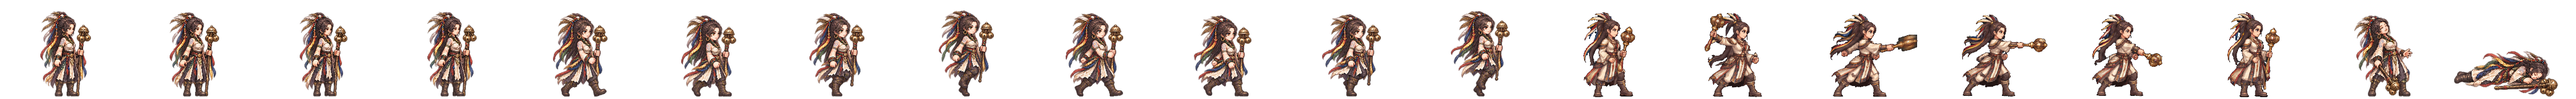
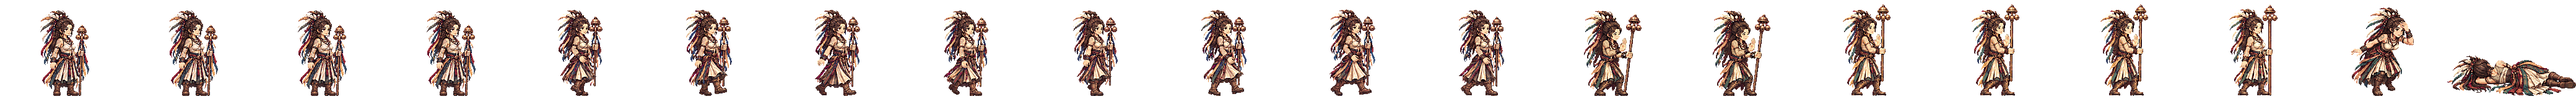
무진 문의 새 띠: 오방색 방울 지팡이 걷기·시전(손바닥 밀기)·방울 흔들기·맞음·쓰러짐 (걷기 윗몸 흔들림 0 · 합격)
Claude-Session: https://claude.ai/code/session_01TRiuN7s6aDfSnaHxrkctmU

Changed region(s): [[0.0, 0.0938, 1.0, 0.9688]]

diff --git a/src/realm/data/spritePx.ts b/src/realm/data/spritePx.ts
@@ -1,3 +1,3 @@
 /** public/realm/anim-px/manifest.json 의 사본 — tools/sprite-normalize.mjs 가 만든다 (손으로 고치지 말 것). 칸 [가로, 세로] · feet = 발 줄(칸 위에서 y) · bodyPx = 서 있는 몸 키 */
 import { expandManifest } from './sprite-manifest.ts'
-export const SPRITE_PX: Readonly<Record<string, { readonly cell: readonly [number, number]; readonly feet: number; readonly bodyPx: number; readonly kind: 'general' | 'soldier' | 'folk' | 'crowd'; readonly cells: number }>> = expandManifest<{ readonly cell: readonly [number, number]; readonly feet: number; readonly bodyPx: number; readonly kind: 'general' | 'soldier' | 'folk' | 'crowd'; readonly cells: number }>([{"cell":[166,128],"feet":126,"bodyPx":124,"kind":"soldier","cells":20},{"cell":[116,128],"feet":126,"bodyPx":117,"kind":"soldier","cells":20},{"cell":[127,128],"feet":126,"bodyPx":116,"kind":"soldier","cells":20},{"cell":[269,128],"feet":126,"bodyPx":126,"kind":"soldier","cells":20},{"cell":[503,128],"feet":126,"bodyPx":127,"kind":"soldier","cells":20},{"cell":[614,128],"feet":126,"bodyPx":126,"kind":"soldier","cells":20},{"cell":[200,160],"feet":156,"bodyPx":138,"kind":"general","cells":20},{"cell":[208,160],"feet":155,"bodyPx":138,"kind":"general","cells":20},{"cell":[208,160],"feet":154,"bodyPx":138,"kind":"general","cells":20},{"cell":[304,160],"feet":155,"bodyPx":135,"kind":"general","cells":20},{"cell":[184,160],"feet":156,"bodyPx":138,"kind":"general","cells":20},{"cell":[208,160],"feet":154,"bodyPx":136,"kind":"general","cells":20},{"cell":[232,160],"feet":156,"bodyPx":138,"kind":"general","cells":20},{"cell":[208,160],"feet":156,"bodyPx":138,"kind":"general","cells":20},{"cell":[168,160],"feet":156,"bodyPx":124,"kind":"general","cells":20},{"cell":[216,160],"feet":156,"bodyPx":130,"kind":"general","cells":20},{"cell":[200,160],"feet":156,"bodyPx":116,"kind":"general","cells":20},{"cell":[192,160],"feet":156,"bodyPx":138,"kind":"general","cells":20},{"cell":[208,160],"feet":154,"bodyPx":135,"kind":"general","cells":20},{"cell":[280,160],"feet":156,"bodyPx":138,"kind":"general","cells":20},{"cell":[232,160],"feet":156,"bodyPx":134,"kind":"general","cells":20},{"cell":[144,160],"feet":156,"bodyPx":70,"kind":"general","cells":20},{"cell":[208,160],"feet":156,"bodyPx":70,"kind":"general","cells":20},{"cell":[192,160],"feet":156,"bodyPx":70,"kind":"general","cells":20},{"cell":[240,160],"feet":155,"bodyPx":138,"kind":"general","cells":20},{"cell":[160,160],"feet":156,"bodyPx":135,"kind":"general","cells":20},{"cell":[192,160],"feet":156,"bodyPx":128,"kind":"general","cells":20},{"cell":[224,160],"feet":155,"bodyPx":138,"kind":"general","cells":20},{"cell":[216,160],"feet":156,"bodyPx":138,"kind":"general","cells":20},{"cell":[208,160],"feet":156,"bodyPx":134,"kind":"general","cells":20},{"cell":[208,160],"feet":154,"bodyPx":130,"kind":"general","cells":20},{"cell":[248,160],"feet":156,"bodyPx":138,"kind":"general","cells":20},{"cell":[248,160],"feet":155,"bodyPx":138,"kind":"general","cells":20},{"cell":[192,160],"feet":155,"bodyPx":138,"kind":"general","cells":20},{"cell":[192,160],"feet":156,"bodyPx":124,"kind":"general","cells":20},{"cell":[208,160],"feet":154,"bodyPx":131,"kind":"general","cells":20},{"cell":[256,160],"feet":156,"bodyPx":138,"kind":"general","cells":20},{"cell":[240,160],"feet":156,"bodyPx":138,"kind":"general","cells":20},{"cell":[232,160],"feet":156,"bodyPx":139,"kind":"general","cells":20},{"cell":[232,160],"feet":156,"bodyPx":73,"kind":"general","cells":20},{"cell":[208,160],"feet":154,"bodyPx":137,"kind":"general","cells":20},{"cell":[264,160],"feet":156,"bodyPx":138,"kind":"general","cells":20},{"cell":[224,160],"feet":156,"bodyPx":138,"kind":"general","cells":20},{"cell":[224,160],"feet":156,"bodyPx":128,"kind":"general","cells":20},{"cell":[176,160],"feet":156,"bodyPx":129,"kind":"general","cells":20},{"cell":[208,160],"feet":154,"bodyPx":139,"kind":"general","cells":20},{"cell":[232,160],"feet":155,"bodyPx":138,"kind":"general","cells":20},{"cell":[208,160],"feet":156,"bodyPx":132,"kind":"general","cells":20},{"cell":[184,160],"feet":156,"bodyPx":122,"kind":"general","cells":20},{"cell":[280,160],"feet":155,"bodyPx":133,"kind":"general","cells":20},{"cell":[176,160],"feet":156,"bodyPx":70,"kind":"general","cells":20},{"cell":[186,128],"feet":126,"bodyPx":127,"kind":"soldier","cells":20},{"cell":[298,128],"feet":126,"bodyPx":126,"kind":"soldier","cells":20},{"cell":[82,128],"feet":126,"bodyPx":114,"kind":"folk","cells":8},{"cell":[134,128],"feet":126,"bodyPx":119,"kind":"soldier","cells":20},{"cell":[380,128],"feet":126,"bodyPx":124,"kind":"soldier","cells":20},{"cell":[114,128],"feet":126,"bodyPx":115,"kind":"soldier","cells":20},{"cell":[122,128],"feet":126,"bodyPx":114,"kind":"soldier","cells":20},{"cell":[254,128],"feet":126,"bodyPx":128,"kind":"soldier","cells":20},{"cell":[438,128],"feet":126,"bodyPx":126,"kind":"soldier","cells":20},{"cell":[88,128],"feet":126,"bodyPx":113,"kind":"folk","cells":8},{"cell":[100,128],"feet":126,"bodyPx":115,"kind":"folk","cells":8},{"cell":[108,128],"feet":126,"bodyPx":115,"kind":"folk","cells":8},{"cell":[63,128],"feet":126,"bodyPx":113,"kind":"folk","cells":8},{"cell":[69,96],"feet":96,"bodyPx":96,"kind":"crowd","cells":1},{"cell":[54,96],"feet":96,"bodyPx":96,"kind":"crowd","cells":1},{"cell":[47,96],"feet":96,"bodyPx":96,"kind":"crowd","cells":1},{"cell":[49,96],"feet":96,"bodyPx":96,"kind":"crowd","cells":1},{"cell":[57,96],"feet":96,"bodyPx":96,"kind":"crowd","cells":1},{"cell":[55,96],"feet":96,"bodyPx":96,"kind":"crowd","cells":1},{"cell":[45,96],"feet":96,"bodyPx":96,"kind":"crowd","cells":1},{"cell":[53,96],"feet":96,"bodyPx":96,"kind":"crowd","cells":1},{"cell":[64,96],"feet":96,"bodyPx":96,"kind":"crowd","cells":1},{"cell":[184,160],"feet":156,"bodyPx":124,"kind":"general","cells":20},{"cell":[208,160],"feet":154,"bodyPx":134,"kind":"general","cells":20},{"cell":[224,160],"feet":156,"bodyPx":133,"kind":"general","cells":20},{"cell":[192,160],"feet":156,"bodyPx":135,"kind":"general","cells":20},{"cell":[184,160],"feet":156,"bodyPx":137,"kind":"general","cells":20},{"cell":[176,160],"feet":156,"bodyPx":130,"kind":"general","cells":20},{"cell":[216,160],"feet":156,"bodyPx":134,"kind":"general","cells":20},{"cell":[216,160],"feet":156,"bodyPx":132,"kind":"general","cells":20},{"cell":[288,160],"feet":156,"bodyPx":138,"kind":"general","cells":20},{"cell":[192,160],"feet":156,"bodyPx":118,"kind":"general","cells":20},{"cell":[208,160],"feet":154,"bodyPx":128,"kind":"general","cells":20},{"cell":[240,160],"feet":156,"bodyPx":128,"kind":"general","cells":20},{"cell":[184,160],"feet":156,"bodyPx":132,"kind":"general","cells":20},{"cell":[208,160],"feet":156,"bodyPx":123,"kind":"general","cells":20},{"cell":[176,160],"feet":156,"bodyPx":116,"kind":"general","cells":20},{"cell":[272,160],"feet":156,"bodyPx":138,"kind":"general","cells":20},{"cell":[176,160],"feet":156,"bodyPx":138,"kind":"general","cells":20},{"cell":[176,160],"feet":156,"bodyPx":122,"kind":"general","cells":20},{"cell":[232,160],"feet":156,"bodyPx":127,"kind":"general","cells":20},{"cell":[184,160],"feet":156,"bodyPx":134,"kind":"general","cells":20},{"cell":[168,160],"feet":156,"bodyPx":138,"kind":"general","cells":20},{"cell":[176,160],"feet":156,"bodyPx":137,"kind":"general","cells":20},{"cell":[184,160],"feet":156,"bodyPx":133,"kind":"general","cells":20}],[["axe",0],["bandit-chief",1],["bandit-club",2],["boat",3],["bow",4],["crossbow",5],["gen-adogan",6],["gen-alpyeong",7],["gen-ara",8],["gen-areum",8],["gen-aryeong",9],["gen-bakdal",8],["gen-baram",8],["gen-bdanbi",10],["gen-beom",11],["gen-beombal",8],["gen-beomi",8],["gen-bira",12],["gen-biryu",13],["gen-budeul",8],["gen-byeol",8],["gen-daemusin",14],["gen-daeso",15],["gen-dallae2",10],["gen-dalli",8],["gen-damul",16],["gen-danbi",8],["gen-dangung",17],["gen-darae",18],["gen-dokmudeom",8],["gen-duman",19],["gen-eomni",8],["gen-eureum",20],["gen-g-bow",21],["gen-g-spear",22],["gen-g-sword",23],["gen-gaennae",8],["gen-gamsil",24],["gen-gaon",25],["gen-geota",13],["gen-geumbawi",10],["gen-geumha",26],["gen-goeun",13],["gen-gom",27],["gen-gomok",13],["gen-gureum",8],["gen-guryema",17],["gen-gwaeyu",12],["gen-haebi",8],["gen-haedal",6],["gen-haesol",8],["gen-halla",7],["gen-heo",8],["gen-hneoul",10],["gen-hogong",28],["gen-hojin",13],["gen-horselord",29],["gen-hwalmi",30],["gen-hyeokgeose",17],["gen-hyeopbo",6],["gen-irang",8],["gen-jibaekho",31],["gen-jinha",32],["gen-jita",33],["gen-jumong",34],["gen-keundol",7],["gen-maehwa",35],["gen-maenun",17],["gen-malgalgi",36],["gen-mari",37],["gen-maro",31],["gen-maryeo",13],["gen-mdallae",38],["gen-mir",6],["gen-mount",39],["gen-mulbeom",40],["gen-mulsae",40],["gen-musoe",28],["gen-noeul",8],["gen-nuri",41],["gen-ocheongan",42],["gen-odi",8],["gen-odogan",6],["gen-ogan",17],["gen-oi",43],["gen-olddaeso",20],["gen-onjo",44],["gen-pidogan",13],["gen-sagong",45],["gen-sdallae",6],["gen-sincheongan",8],["gen-singwigan",28],["gen-sinneoul",8],["gen-sobeol",46],["gen-soebi",6],["gen-soebo",47],["gen-soenun",45],["gen-sogeumbi",40],["gen-songbi",42],["gen-songyang",48],["gen-sori",8],["gen-soseono",49],["gen-suro",17],["gen-tahae",6],["gen-tneoul",8],["gen-w-bow",21],["gen-w-spear",50],["gen-waechief",13],["gen-wan",28],["gen-yeodogan",13],["gen-yucheongan",13],["gen-yusugan",31],["horse",51],["marine",52],["migrant",53],["militia",54],["pike",55],["pirate-captain",56],["pirate-sword",57],["shield",58],["spear",59],["villager-builder",60],["villager-farmer",61],["villager-porter",62],["villager-woman",63],["crowd-b1",64],["crowd-b2",65],["crowd-b3",66],["crowd-b4",67],["crowd-b5",68],["crowd-b6",69],["crowd-f1",64],["crowd-f2",69],["crowd-f3",70],["crowd-f4",71],["crowd-f5",64],["crowd-f6",72],["gen-dalbit",13],["gen-base-g-07-drunk-warrior",17],["gen-base-g-40-anya-adan",13],["gen-base-w-13-young-archer",8],["gen-base-g-03-sea-trader",37],["gen-base-w-10-pirate-captain",45],["gen-base-w-64-miri-dallae",45],["gen-base-g-41-goja-bau",37],["gen-base-g-42-dokro-garam",41],["gen-base-g-09-farmer-conscript",28],["gen-base-w-02-goguryeo-lady",28],["gen-base-w-17-mahan-pearl-diver",8],["gen-base-g-17-saro-isageum",47],["gen-base-g-18-daegaya-king",73],["gen-base-g-35-dabeol-dalgu",13],["gen-base-g-19-sabeol-veteran",28],["gen-base-w-23-usisan-whale-queen",8],["gen-base-g-36-gammun-gamdol",42],["gen-base-g-20-samul-sea-lord",36],["gen-base-g-37-eumjeup-jeup",10],["gen-base-g-38-chopal-palmae",17],["gen-base-w-75-daegaya-soemoe",17],["gen-base-g-45-dabeol-deulgae",10],["gen-base-g-04-jinhan-giant",13],["gen-base-g-08-veteran",13],["gen-base-w-18-jinhan-salt-widow",8],["gen-base-w-12-court-dancer",74],["gen-base-w-83-gyeonji-beodeul",75],["gen-base-w-05-baekje-queen",76],["gen-base-w-21-baekje-court-dancer",10],["gen-base-g-01-master-smith",77],["gen-base-g-93-jomun-solgae",78],["gen-base-g-57-bihwa-neup",37],["gen-base-w-72-eumjeup-beol",8],["gen-base-w-102-garak-dana",45],["gen-base-g-68-baekje-onnuri",13],["gen-base-w-27-mokji-jinha",6],["gen-base-g-22-ungcheon-gomnae",6],["gen-base-g-23-sangdang-soedal",13],["gen-base-g-24-wansan-onsan",6],["gen-base-g-25-balla-keunmoe",28],["gen-base-g-61-heomcheuk-bawi",28],["gen-base-g-88-wander-soeul",42],["gen-base-w-14-feast-spy",8],["gen-base-g-12-silla-youth",79],["gen-base-w-08-mahan-warrior",8],["gen-base-g-62-beonye-hanul",37],["gen-base-g-63-heomcheuk-beogeum",13],["gen-base-g-84-wander-seoneul",13],["gen-base-w-50-siljik-mulga",28],["gen-base-g-46-uga-nureongso",28],["gen-base-w-80-usan-gangchi",45],["gen-base-g-47-guga-sanyanggae",28],["gen-base-w-76-gampyeong-baetsagong",8],["gen-base-g-05-mahan-chieftain",80],["gen-base-g-58-usan-uhae",13],["gen-base-g-27-maek-maekdol",13],["gen-base-w-53-hwanna-gabi",45],["gen-base-w-29-golpo-janmul",31],["gen-base-g-53-baekje-haeru",6],["gen-base-w-71-yeonna-neoul",8],["gen-base-w-79-yangmaek-solmae",8],["gen-base-w-34-chopal-deulme",8],["gen-base-g-44-maga-malgup",81],["gen-base-w-31-dabeol-dalbit",45],["gen-base-g-51-biryuna-mulgyeol",42],["gen-base-g-48-gwanna-musoe",13],["gen-base-g-32-uga-sodu",12],["gen-base-g-49-goguryeo-sona",82],["gen-base-g-30-gwanna-soemoe",42],["gen-base-g-52-tamna-oreum",10],["gen-base-g-29-yeonna-myeongsol",34],["gen-base-w-56-dongokjeo-sogeum",74],["gen-base-g-54-mokji-mahan",12],["gen-base-g-33-jeoga-metdol",17],["gen-base-w-36-baekje-maena",8],["gen-base-w-38-sangdang-bulmae",6],["gen-base-w-39-gosaburi-galmae",8],["gen-base-w-40-mujin-munui",47],["gen-base-w-41-hwanna-beodeul",83],["gen-base-w-43-uga-nuri",36],["gen-base-w-45-tamna-oreumbi",10],["gen-base-g-60-golbeol-golgae",10],["gen-base-g-61-apdok-ap",28],["gen-base-g-62-gammun-gamnamu",6],["gen-base-g-63-chopal-yeoul",31],["gen-base-g-64-michuhol-sogeumkkun",37],["gen-base-g-65-sangdang-soemangchi",42],["gen-base-g-66-geonma-malbalgup",84],["gen-base-g-67-gosaburi-buri",85],["gen-base-g-68-mujin-bitgoeul",10],["gen-base-g-69-goryong-yong",42],["gen-base-g-70-siljik-pado",37],["gen-base-w-81-byeokjin-byeolbit",8],["gen-base-w-46-geonma-maru",8],["gen-base-w-48-mujin-mudeung",8],["gen-base-g-26-gampyeong-gaetbeol",12],["gen-base-g-60-eupcha-hangyeol",86],["gen-base-g-15-shaman-man",28],["gen-base-g-85-wander-ure",31],["gen-base-g-43-hwanna-amnok",13],["gen-base-g-50-bullae-gwaha",76],["gen-base-g-55-saro-bakdal",13],["gen-base-g-56-haseulla-gwahama",6],["gen-base-w-06-buyeo-huntress",40],["gen-base-w-22-dongye-tiger-huntress",8],["gen-base-w-25-bihwa-priestess",8],["gen-base-w-24-apdok-queen",10],["gen-base-w-61-iseo-sinae",13],["gen-base-w-26-iseo-tomboy-general",8],["gen-base-g-59-yangmaek-maekson",87],["gen-aw1-haebi",42],["gen-aw1-soseono",88],["gen-aw1-gamsil",10],["gen-aw1-mir",89],["gen-aw1-dangung",6],["gen-aw1-ara",42],["gen-aw1-jumong",90],["gen-aw1-onjo",91],["gen-aw1-base-w-83-gyeonji-beodeul",17],["gen-aw1-heo",41],["gen-aw1-base-g-38-chopal-palmae",6],["gen-aw1-base-w-25-bihwa-priestess",92],["gen-aw1-sori",93],["gen-aw1-gomok",6],["gen-aw1-irang",17],["gen-aw1-budeul",93],["gen-aw1-gom",37],["gen-aw1-sdallae",6],["gen-aw1-base-w-13-young-archer",6],["gen-aw1-base-w-36-baekje-maena",94],["gen-aw1-base-g-09-farmer-conscript",41],["gen-aw1-base-w-02-goguryeo-lady",95],["gen-aw1-haedal",10],["gen-aw1-hogong",6],["gen-aw1-maehwa",89],["gen-aw1-base-w-06-buyeo-huntress",12],["gen-aw1-base-w-08-mahan-warrior",42],["gen-aw1-base-w-29-golpo-janmul",42],["gen-aw1-base-w-31-dabeol-dalbit",17],["gen-aw1-base-w-38-sangdang-bulmae",93],["gen-aw1-bira",28],["gen-aw1-base-w-53-hwanna-gabi",93],["gen-aw1-base-w-56-dongokjeo-sogeum",89],["gen-aw1-base-w-72-eumjeup-beol",17],["gen-aw1-bdanbi",93],["gen-aw1-beom",10],["gen-aw1-beombal",10],["gen-aw1-byeol",17],["gen-aw1-dalli",89],["gen-aw1-malgalgi",31],["gen-aw1-sincheongan",28]])
+export const SPRITE_PX: Readonly<Record<string, { readonly cell: readonly [number, number]; readonly feet: number; readonly bodyPx: number; readonly kind: 'general' | 'soldier' | 'folk' | 'crowd'; readonly cells: number }>> = expandManifest<{ readonly cell: readonly [number, number]; readonly feet: number; readonly bodyPx: number; readonly kind: 'general' | 'soldier' | 'folk' | 'crowd'; readonly cells: number }>([{"cell":[166,128],"feet":126,"bodyPx":124,"kind":"soldier","cells":20},{"cell":[116,128],"feet":126,"bodyPx":117,"kind":"soldier","cells":20},{"cell":[127,128],"feet":126,"bodyPx":116,"kind":"soldier","cells":20},{"cell":[269,128],"feet":126,"bodyPx":126,"kind":"soldier","cells":20},{"cell":[503,128],"feet":126,"bodyPx":127,"kind":"soldier","cells":20},{"cell":[614,128],"feet":126,"bodyPx":126,"kind":"soldier","cells":20},{"cell":[200,160],"feet":156,"bodyPx":138,"kind":"general","cells":20},{"cell":[208,160],"feet":155,"bodyPx":138,"kind":"general","cells":20},{"cell":[208,160],"feet":154,"bodyPx":138,"kind":"general","cells":20},{"cell":[304,160],"feet":155,"bodyPx":135,"kind":"general","cells":20},{"cell":[184,160],"feet":156,"bodyPx":138,"kind":"general","cells":20},{"cell":[208,160],"feet":154,"bodyPx":136,"kind":"general","cells":20},{"cell":[232,160],"feet":156,"bodyPx":138,"kind":"general","cells":20},{"cell":[208,160],"feet":156,"bodyPx":138,"kind":"general","cells":20},{"cell":[168,160],"feet":156,"bodyPx":124,"kind":"general","cells":20},{"cell":[216,160],"feet":156,"bodyPx":130,"kind":"general","cells":20},{"cell":[200,160],"feet":156,"bodyPx":116,"kind":"general","cells":20},{"cell":[192,160],"feet":156,"bodyPx":138,"kind":"general","cells":20},{"cell":[208,160],"feet":154,"bodyPx":135,"kind":"general","cells":20},{"cell":[280,160],"feet":156,"bodyPx":138,"kind":"general","cells":20},{"cell":[232,160],"feet":156,"bodyPx":134,"kind":"general","cells":20},{"cell":[144,160],"feet":156,"bodyPx":70,"kind":"general","cells":20},{"cell":[208,160],"feet":156,"bodyPx":70,"kind":"general","cells":20},{"cell":[192,160],"feet":156,"bodyPx":70,"kind":"general","cells":20},{"cell":[240,160],"feet":155,"bodyPx":138,"kind":"general","cells":20},{"cell":[160,160],"feet":156,"bodyPx":135,"kind":"general","cells":20},{"cell":[192,160],"feet":156,"bodyPx":128,"kind":"general","cells":20},{"cell":[224,160],"feet":155,"bodyPx":138,"kind":"general","cells":20},{"cell":[216,160],"feet":156,"bodyPx":138,"kind":"general","cells":20},{"cell":[208,160],"feet":156,"bodyPx":134,"kind":"general","cells":20},{"cell":[208,160],"feet":154,"bodyPx":130,"kind":"general","cells":20},{"cell":[248,160],"feet":156,"bodyPx":138,"kind":"general","cells":20},{"cell":[248,160],"feet":155,"bodyPx":138,"kind":"general","cells":20},{"cell":[192,160],"feet":155,"bodyPx":138,"kind":"general","cells":20},{"cell":[192,160],"feet":156,"bodyPx":124,"kind":"general","cells":20},{"cell":[208,160],"feet":154,"bodyPx":131,"kind":"general","cells":20},{"cell":[256,160],"feet":156,"bodyPx":138,"kind":"general","cells":20},{"cell":[240,160],"feet":156,"bodyPx":138,"kind":"general","cells":20},{"cell":[232,160],"feet":156,"bodyPx":139,"kind":"general","cells":20},{"cell":[232,160],"feet":156,"bodyPx":73,"kind":"general","cells":20},{"cell":[208,160],"feet":154,"bodyPx":137,"kind":"general","cells":20},{"cell":[264,160],"feet":156,"bodyPx":138,"kind":"general","cells":20},{"cell":[224,160],"feet":156,"bodyPx":138,"kind":"general","cells":20},{"cell":[224,160],"feet":156,"bodyPx":128,"kind":"general","cells":20},{"cell":[176,160],"feet":156,"bodyPx":129,"kind":"general","cells":20},{"cell":[208,160],"feet":154,"bodyPx":139,"kind":"general","cells":20},{"cell":[232,160],"feet":155,"bodyPx":138,"kind":"general","cells":20},{"cell":[208,160],"feet":156,"bodyPx":132,"kind":"general","cells":20},{"cell":[184,160],"feet":156,"bodyPx":122,"kind":"general","cells":20},{"cell":[280,160],"feet":155,"bodyPx":133,"kind":"general","cells":20},{"cell":[176,160],"feet":156,"bodyPx":70,"kind":"general","cells":20},{"cell":[186,128],"feet":126,"bodyPx":127,"kind":"soldier","cells":20},{"cell":[298,128],"feet":126,"bodyPx":126,"kind":"soldier","cells":20},{"cell":[82,128],"feet":126,"bodyPx":114,"kind":"folk","cells":8},{"cell":[134,128],"feet":126,"bodyPx":119,"kind":"soldier","cells":20},{"cell":[380,128],"feet":126,"bodyPx":124,"kind":"soldier","cells":20},{"cell":[114,128],"feet":126,"bodyPx":115,"kind":"soldier","cells":20},{"cell":[122,128],"feet":126,"bodyPx":114,"kind":"soldier","cells":20},{"cell":[254,128],"feet":126,"bodyPx":128,"kind":"soldier","cells":20},{"cell":[438,128],"feet":126,"bodyPx":126,"kind":"soldier","cells":20},{"cell":[88,128],"feet":126,"bodyPx":113,"kind":"folk","cells":8},{"cell":[100,128],"feet":126,"bodyPx":115,"kind":"folk","cells":8},{"cell":[108,128],"feet":126,"bodyPx":115,"kind":"folk","cells":8},{"cell":[63,128],"feet":126,"bodyPx":113,"kind":"folk","cells":8},{"cell":[69,96],"feet":96,"bodyPx":96,"kind":"crowd","cells":1},{"cell":[54,96],"feet":96,"bodyPx":96,"kind":"crowd","cells":1},{"cell":[47,96],"feet":96,"bodyPx":96,"kind":"crowd","cells":1},{"cell":[49,96],"feet":96,"bodyPx":96,"kind":"crowd","cells":1},{"cell":[57,96],"feet":96,"bodyPx":96,"kind":"crowd","cells":1},{"cell":[55,96],"feet":96,"bodyPx":96,"kind":"crowd","cells":1},{"cell":[45,96],"feet":96,"bodyPx":96,"kind":"crowd","cells":1},{"cell":[53,96],"feet":96,"bodyPx":96,"kind":"crowd","cells":1},{"cell":[64,96],"feet":96,"bodyPx":96,"kind":"crowd","cells":1},{"cell":[184,160],"feet":156,"bodyPx":124,"kind":"general","cells":20},{"cell":[208,160],"feet":154,"bodyPx":134,"kind":"general","cells":20},{"cell":[224,160],"feet":156,"bodyPx":133,"kind":"general","cells":20},{"cell":[192,160],"feet":156,"bodyPx":135,"kind":"general","cells":20},{"cell":[184,160],"feet":156,"bodyPx":137,"kind":"general","cells":20},{"cell":[176,160],"feet":156,"bodyPx":130,"kind":"general","cells":20},{"cell":[216,160],"feet":156,"bodyPx":134,"kind":"general","cells":20},{"cell":[216,160],"feet":156,"bodyPx":132,"kind":"general","cells":20},{"cell":[288,160],"feet":156,"bodyPx":138,"kind":"general","cells":20},{"cell":[192,160],"feet":156,"bodyPx":118,"kind":"general","cells":20},{"cell":[208,160],"feet":154,"bodyPx":132,"kind":"general","cells":20},{"cell":[208,160],"feet":154,"bodyPx":128,"kind":"general","cells":20},{"cell":[240,160],"feet":156,"bodyPx":128,"kind":"general","cells":20},{"cell":[184,160],"feet":156,"bodyPx":132,"kind":"general","cells":20},{"cell":[208,160],"feet":156,"bodyPx":123,"kind":"general","cells":20},{"cell":[176,160],"feet":156,"bodyPx":116,"kind":"general","cells":20},{"cell":[272,160],"feet":156,"bodyPx":138,"kind":"general","cells":20},{"cell":[176,160],"feet":156,"bodyPx":138,"kind":"general","cells":20},{"cell":[176,160],"feet":156,"bodyPx":122,"kind":"general","cells":20},{"cell":[232,160],"feet":156,"bodyPx":127,"kind":"general","cells":20},{"cell":[184,160],"feet":156,"bodyPx":134,"kind":"general","cells":20},{"cell":[168,160],"feet":156,"bodyPx":138,"kind":"general","cells":20},{"cell":[176,160],"feet":156,"bodyPx":137,"kind":"general","cells":20},{"cell":[184,160],"feet":156,"bodyPx":133,"kind":"general","cells":20}],[["axe",0],["bandit-chief",1],["bandit-club",2],["boat",3],["bow",4],["crossbow",5],["gen-adogan",6],["gen-alpyeong",7],["gen-ara",8],["gen-areum",8],["gen-aryeong",9],["gen-bakdal",8],["gen-baram",8],["gen-bdanbi",10],["gen-beom",11],["gen-beombal",8],["gen-beomi",8],["gen-bira",12],["gen-biryu",13],["gen-budeul",8],["gen-byeol",8],["gen-daemusin",14],["gen-daeso",15],["gen-dallae2",10],["gen-dalli",8],["gen-damul",16],["gen-danbi",8],["gen-dangung",17],["gen-darae",18],["gen-dokmudeom",8],["gen-duman",19],["gen-eomni",8],["gen-eureum",20],["gen-g-bow",21],["gen-g-spear",22],["gen-g-sword",23],["gen-gaennae",8],["gen-gamsil",24],["gen-gaon",25],["gen-geota",13],["gen-geumbawi",10],["gen-geumha",26],["gen-goeun",13],["gen-gom",27],["gen-gomok",13],["gen-gureum",8],["gen-guryema",17],["gen-gwaeyu",12],["gen-haebi",8],["gen-haedal",6],["gen-haesol",8],["gen-halla",7],["gen-heo",8],["gen-hneoul",10],["gen-hogong",28],["gen-hojin",13],["gen-horselord",29],["gen-hwalmi",30],["gen-hyeokgeose",17],["gen-hyeopbo",6],["gen-irang",8],["gen-jibaekho",31],["gen-jinha",32],["gen-jita",33],["gen-jumong",34],["gen-keundol",7],["gen-maehwa",35],["gen-maenun",17],["gen-malgalgi",36],["gen-mari",37],["gen-maro",31],["gen-maryeo",13],["gen-mdallae",38],["gen-mir",6],["gen-mount",39],["gen-mulbeom",40],["gen-mulsae",40],["gen-musoe",28],["gen-noeul",8],["gen-nuri",41],["gen-ocheongan",42],["gen-odi",8],["gen-odogan",6],["gen-ogan",17],["gen-oi",43],["gen-olddaeso",20],["gen-onjo",44],["gen-pidogan",13],["gen-sagong",45],["gen-sdallae",6],["gen-sincheongan",8],["gen-singwigan",28],["gen-sinneoul",8],["gen-sobeol",46],["gen-soebi",6],["gen-soebo",47],["gen-soenun",45],["gen-sogeumbi",40],["gen-songbi",42],["gen-songyang",48],["gen-sori",8],["gen-soseono",49],["gen-suro",17],["gen-tahae",6],["gen-tneoul",8],["gen-w-bow",21],["gen-w-spear",50],["gen-waechief",13],["gen-wan",28],["gen-yeodogan",13],["gen-yucheongan",13],["gen-yusugan",31],["horse",51],["marine",52],["migrant",53],["militia",54],["pike",55],["pirate-captain",56],["pirate-sword",57],["shield",58],["spear",59],["villager-builder",60],["villager-farmer",61],["villager-porter",62],["villager-woman",63],["crowd-b1",64],["crowd-b2",65],["crowd-b3",66],["crowd-b4",67],["crowd-b5",68],["crowd-b6",69],["crowd-f1",64],["crowd-f2",69],["crowd-f3",70],["crowd-f4",71],["crowd-f5",64],["crowd-f6",72],["gen-dalbit",13],["gen-base-g-07-drunk-warrior",17],["gen-base-g-40-anya-adan",13],["gen-base-w-13-young-archer",8],["gen-base-g-03-sea-trader",37],["gen-base-w-10-pirate-captain",45],["gen-base-w-64-miri-dallae",45],["gen-base-g-41-goja-bau",37],["gen-base-g-42-dokro-garam",41],["gen-base-g-09-farmer-conscript",28],["gen-base-w-02-goguryeo-lady",28],["gen-base-w-17-mahan-pearl-diver",8],["gen-base-g-17-saro-isageum",47],["gen-base-g-18-daegaya-king",73],["gen-base-g-35-dabeol-dalgu",13],["gen-base-g-19-sabeol-veteran",28],["gen-base-w-23-usisan-whale-queen",8],["gen-base-g-36-gammun-gamdol",42],["gen-base-g-20-samul-sea-lord",36],["gen-base-g-37-eumjeup-jeup",10],["gen-base-g-38-chopal-palmae",17],["gen-base-w-75-daegaya-soemoe",17],["gen-base-g-45-dabeol-deulgae",10],["gen-base-g-04-jinhan-giant",13],["gen-base-g-08-veteran",13],["gen-base-w-18-jinhan-salt-widow",8],["gen-base-w-12-court-dancer",74],["gen-base-w-83-gyeonji-beodeul",75],["gen-base-w-05-baekje-queen",76],["gen-base-w-21-baekje-court-dancer",10],["gen-base-g-01-master-smith",77],["gen-base-g-93-jomun-solgae",78],["gen-base-g-57-bihwa-neup",37],["gen-base-w-72-eumjeup-beol",8],["gen-base-w-102-garak-dana",45],["gen-base-g-68-baekje-onnuri",13],["gen-base-w-27-mokji-jinha",6],["gen-base-g-22-ungcheon-gomnae",6],["gen-base-g-23-sangdang-soedal",13],["gen-base-g-24-wansan-onsan",6],["gen-base-g-25-balla-keunmoe",28],["gen-base-g-61-heomcheuk-bawi",28],["gen-base-g-88-wander-soeul",42],["gen-base-w-14-feast-spy",8],["gen-base-g-12-silla-youth",79],["gen-base-w-08-mahan-warrior",8],["gen-base-g-62-beonye-hanul",37],["gen-base-g-63-heomcheuk-beogeum",13],["gen-base-g-84-wander-seoneul",13],["gen-base-w-50-siljik-mulga",28],["gen-base-g-46-uga-nureongso",28],["gen-base-w-80-usan-gangchi",45],["gen-base-g-47-guga-sanyanggae",28],["gen-base-w-76-gampyeong-baetsagong",8],["gen-base-g-05-mahan-chieftain",80],["gen-base-g-58-usan-uhae",13],["gen-base-g-27-maek-maekdol",13],["gen-base-w-53-hwanna-gabi",45],["gen-base-w-29-golpo-janmul",31],["gen-base-g-53-baekje-haeru",6],["gen-base-w-71-yeonna-neoul",8],["gen-base-w-79-yangmaek-solmae",8],["gen-base-w-34-chopal-deulme",8],["gen-base-g-44-maga-malgup",81],["gen-base-w-31-dabeol-dalbit",45],["gen-base-g-51-biryuna-mulgyeol",42],["gen-base-g-48-gwanna-musoe",13],["gen-base-g-32-uga-sodu",12],["gen-base-g-49-goguryeo-sona",82],["gen-base-g-30-gwanna-soemoe",42],["gen-base-g-52-tamna-oreum",10],["gen-base-g-29-yeonna-myeongsol",34],["gen-base-w-56-dongokjeo-sogeum",74],["gen-base-g-54-mokji-mahan",12],["gen-base-g-33-jeoga-metdol",17],["gen-base-w-36-baekje-maena",8],["gen-base-w-38-sangdang-bulmae",6],["gen-base-w-39-gosaburi-galmae",8],["gen-base-w-40-mujin-munui",83],["gen-base-w-41-hwanna-beodeul",84],["gen-base-w-43-uga-nuri",36],["gen-base-w-45-tamna-oreumbi",10],["gen-base-g-60-golbeol-golgae",10],["gen-base-g-61-apdok-ap",28],["gen-base-g-62-gammun-gamnamu",6],["gen-base-g-63-chopal-yeoul",31],["gen-base-g-64-michuhol-sogeumkkun",37],["gen-base-g-65-sangdang-soemangchi",42],["gen-base-g-66-geonma-malbalgup",85],["gen-base-g-67-gosaburi-buri",86],["gen-base-g-68-mujin-bitgoeul",10],["gen-base-g-69-goryong-yong",42],["gen-base-g-70-siljik-pado",37],["gen-base-w-81-byeokjin-byeolbit",8],["gen-base-w-46-geonma-maru",8],["gen-base-w-48-mujin-mudeung",8],["gen-base-g-26-gampyeong-gaetbeol",12],["gen-base-g-60-eupcha-hangyeol",87],["gen-base-g-15-shaman-man",28],["gen-base-g-85-wander-ure",31],["gen-base-g-43-hwanna-amnok",13],["gen-base-g-50-bullae-gwaha",76],["gen-base-g-55-saro-bakdal",13],["gen-base-g-56-haseulla-gwahama",6],["gen-base-w-06-buyeo-huntress",40],["gen-base-w-22-dongye-tiger-huntress",8],["gen-base-w-25-bihwa-priestess",8],["gen-base-w-24-apdok-queen",10],["gen-base-w-61-iseo-sinae",13],["gen-base-w-26-iseo-tomboy-general",8],["gen-base-g-59-yangmaek-maekson",88],["gen-aw1-haebi",42],["gen-aw1-soseono",89],["gen-aw1-gamsil",10],["gen-aw1-mir",90],["gen-aw1-dangung",6],["gen-aw1-ara",42],["gen-aw1-jumong",91],["gen-aw1-onjo",92],["gen-aw1-base-w-83-gyeonji-beodeul",17],["gen-aw1-heo",41],["gen-aw1-base-g-38-chopal-palmae",6],["gen-aw1-base-w-25-bihwa-priestess",93],["gen-aw1-sori",94],["gen-aw1-gomok",6],["gen-aw1-irang",17],["gen-aw1-budeul",94],["gen-aw1-gom",37],["gen-aw1-sdallae",6],["gen-aw1-base-w-13-young-archer",6],["gen-aw1-base-w-36-baekje-maena",95],["gen-aw1-base-g-09-farmer-conscript",41],["gen-aw1-base-w-02-goguryeo-lady",96],["gen-aw1-haedal",10],["gen-aw1-hogong",6],["gen-aw1-maehwa",90],["gen-aw1-base-w-06-buyeo-huntress",12],["gen-aw1-base-w-08-mahan-warrior",42],["gen-aw1-base-w-29-golpo-janmul",42],["gen-aw1-base-w-31-dabeol-dalbit",17],["gen-aw1-base-w-38-sangdang-bulmae",94],["gen-aw1-bira",28],["gen-aw1-base-w-53-hwanna-gabi",94],["gen-aw1-base-w-56-dongokjeo-sogeum",90],["gen-aw1-base-w-72-eumjeup-beol",17],["gen-aw1-bdanbi",94],["gen-aw1-beom",10],["gen-aw1-beombal",10],["gen-aw1-byeol",17],["gen-aw1-dalli",90],["gen-aw1-malgalgi",31],["gen-aw1-sincheongan",28]])

diff --git a/src/duel/view.ts b/src/duel/view.ts
@@ -100,7 +100,7 @@ const crowdFront = [1, 2, 3, 4, 5, 6].map((i) => img(`realm/duel/crowd/b${i}.png
 const crowdReady = (set: HTMLImageElement[]): boolean => set.every((im) => im.complete && im.naturalWidth > 0)
 const pxMode = cfg.px !== false && params.get('px') !== '0'
 /** 겨루기 전용 옛 띠(duel/sprites) 대신 열전과 같은 도트 띠(anim-px)를 쓰는 장수 — 두 판에서 같은 모습 · 서기 계획·쓰러지는 칸도 같다 (11-23 범 · 매화 · 달빛 · 11-24 해비 · 아룸) */
-const PX_DUEL: ReadonlySet<string> = new Set(['beom', 'maehwa', 'base-w-31-dabeol-dalbit', 'haebi', 'areum', 'base-w-13-young-archer', 'base-w-10-pirate-captain', 'base-w-17-mahan-pearl-diver', 'base-w-06-buyeo-huntress', 'base-w-64-miri-dallae', 'ara', 'base-w-22-dongye-tiger-huntress', 'noeul', 'sagong', 'sinneoul', 'heo', 'base-w-08-mahan-warrior', 'base-w-23-usisan-whale-queen', 'base-w-26-iseo-tomboy-general', 'base-w-72-eumjeup-beol', 'tneoul', 'odi', 'base-w-76-gampyeong-baetsagong', 'base-w-34-chopal-deulme', 'base-w-102-garak-dana', 'base-w-36-baekje-maena', 'base-w-56-dongokjeo-sogeum', 'budeul', 'base-w-53-hwanna-gabi', 'base-w-18-jinhan-salt-widow', 'beombal', 'irang', 'sogeumbi', 'baram', 'byeol', 'base-w-71-yeonna-neoul', 'base-w-39-gosaburi-galmae', 'base-w-41-hwanna-beodeul', 'base-w-79-yangmaek-solmae', 'base-w-46-geonma-maru', 'base-w-48-mujin-mudeung', 'base-w-80-usan-gangchi', 'base-w-81-byeokjin-byeolbit', 'beomi', 'danbi', 'dalli', 'gureum', 'haesol', 'soenun', 'eomni', 'mulbeom', 'mulsae', 'bakdal', 'darae', 'sori', 'base-w-12-court-dancer', 'hwalmi', 'gaennae', 'dokmudeom', 'base-w-14-feast-spy', 'base-w-25-bihwa-priestess', 'sincheongan'])
+const PX_DUEL: ReadonlySet<string> = new Set(['beom', 'maehwa', 'base-w-31-dabeol-dalbit', 'haebi', 'areum', 'base-w-13-young-archer', 'base-w-10-pirate-captain', 'base-w-17-mahan-pearl-diver', 'base-w-06-buyeo-huntress', 'base-w-64-miri-dallae', 'ara', 'base-w-22-dongye-tiger-huntress', 'noeul', 'sagong', 'sinneoul', 'heo', 'base-w-08-mahan-warrior', 'base-w-23-usisan-whale-queen', 'base-w-26-iseo-tomboy-general', 'base-w-72-eumjeup-beol', 'tneoul', 'odi', 'base-w-76-gampyeong-baetsagong', 'base-w-34-chopal-deulme', 'base-w-102-garak-dana', 'base-w-36-baekje-maena', 'base-w-56-dongokjeo-sogeum', 'budeul', 'base-w-53-hwanna-gabi', 'base-w-18-jinhan-salt-widow', 'beombal', 'irang', 'sogeumbi', 'baram', 'byeol', 'base-w-71-yeonna-neoul', 'base-w-39-gosaburi-galmae', 'base-w-41-hwanna-beodeul', 'base-w-79-yangmaek-solmae', 'base-w-46-geonma-maru', 'base-w-48-mujin-mudeung', 'base-w-80-usan-gangchi', 'base-w-81-byeokjin-byeolbit', 'beomi', 'danbi', 'dalli', 'gureum', 'haesol', 'soenun', 'eomni', 'mulbeom', 'mulsae', 'bakdal', 'darae', 'sori', 'base-w-12-court-dancer', 'hwalmi', 'gaennae', 'dokmudeom', 'base-w-14-feast-spy', 'base-w-25-bihwa-priestess', 'sincheongan', 'base-w-40-mujin-munui'])
 /** 띠 그림 — 기본은 anim-px(도트 규격) 먼저, 없으면 옛 띠로 (img 의 onerror 가 갈아 끼운다) */
 const strip = (s: string): HTMLImageElement => pxMode
   ? DUEL_ATLASES[s] !== undefined && !PX_DUEL.has(s) ? img(`realm/duel/sprites/gen-${s}.png`, `realm/anim-px/gen-${s}.png`)

diff --git a/src/tune/params.ts b/src/tune/params.ts
@@ -1508,6 +1508,7 @@ export const HAEBI_IDLE = {
     'base-w-14-feast-spy': { cells: 38, base: [0, 1], hold: 2.4, fall: [18, 20, 21, 19], attack: { cells: [22, 23, 24, 25, 26, 27, 28, 29], times: [.09, .08, .11, .12, .12, .08, .08, .12], hit: 3 }, hurt: [34, 35], rise: [36, 37], xGeom: { h: 224, root: 92, foot: 216 } },
     'base-w-25-bihwa-priestess': { cells: 38, base: [0, 1], hold: 2.4, fall: [18, 20, 21, 19], quirk: [22, 23, 24, 25], quirkTimes: [.28, .3, .3, .25], attack: { cells: [26, 27, 28, 29, 30, 31, 32, 33], times: [.09, .08, .30, .05, .15, .07, .08, .12], hit: 4 }, hurt: [34, 35], rise: [36, 37], xGeom: { h: 224, root: 92, foot: 216 } },
     sincheongan: { cells: 38, base: [0, 1], hold: 2.4, fall: [18, 20, 21, 19], quirk: [22, 23, 24, 25], quirkTimes: [.28, .3, .3, .25], attack: { cells: [26, 27, 28, 29, 30, 31, 32, 33], times: [.09, .08, .30, .05, .15, .07, .08, .12], hit: 4 }, hurt: [34, 35], rise: [36, 37], xGeom: { h: 224, root: 92, foot: 216 } },
+    'base-w-40-mujin-munui': { cells: 38, base: [0, 1], hold: 2.4, fall: [18, 20, 21, 19], quirk: [22, 23, 24, 25], quirkTimes: [.28, .3, .3, .25], attack: { cells: [26, 27, 28, 29, 30, 31, 32, 33], times: [.09, .08, .30, .05, .15, .07, .08, .12], hit: 4 }, hurt: [34, 35], rise: [36, 37], xGeom: { h: 224, root: 92, foot: 216 } },
   },
 } as const
 export const HAEBI_ANIM = {

diff --git a/tools/sprite-kit/anim-harness.py b/tools/sprite-kit/anim-harness.py
@@ -104,6 +104,7 @@ HEROES = {
     'nuri': dict(hit=True, strip='gen-nuri', atk='thrust', src='thrust2', actw=264, refoot=True, atk8=True, act=True, legacy=(('a', 2), ('a', 3), ('b', 3), ('b', 4)), cells8=[('a', 1), ('a', 2), ('a', 3), ('a', 4), ('a', 4), ('a', 4), ('b', 3), ('b', 4)]),   # 구가 누리 · 열째 묶음(API)
     'bihwa': dict(hit=True, strip='gen-base-w-25-bihwa-priestess', atk='cast', actw=264, atk8=True, act=True, legacy=(('a', 1), ('b', 3), ('b', 3), ('b', 4))),   # 비화 무녀(방울 지팡이 · 가슴 M) · 무녀 묶음(11-25 밤) · 시전 cast(방울 흔들고 손바닥 밀기)
     'sincheongan': dict(hit=True, strip='gen-sincheongan', atk='cast', actw=264, atk8=True, act=True, legacy=(('a', 1), ('b', 3), ('b', 3), ('b', 4))),   # 가락 신청간(방울 지팡이 · 가슴 M) · 무녀 묶음(11-25 밤) · 시전 cast(방울 흔들고 손바닥 밀기)
+    'munui': dict(hit=True, strip='gen-base-w-40-mujin-munui', atk='cast', actw=264, atk8=True, act=True, legacy=(('a', 1), ('b', 3), ('b', 3), ('b', 4))),   # 무진 문의(방울 지팡이 · 가슴 M) · 무녀 묶음(11-25 밤) · 시전 cast(방울 흔들고 손바닥 밀기)
     'haebi': dict(hit=True, strip='gen-haebi', atk='chop', atk8=True, act=True),   # act = 공격 여덟 칸이 넓은 동작 칸(240×224 · 뿌리 92 · 발 줄 216)
     'areum': dict(hit=True, strip='gen-areum', atk='slam', atk8=True, act=True, lock='none'),   # 받은 그림 그대로(얼굴을 떠다 붙이지 않는다 — 11-24: 뭉친 얼굴이 여덟 칸에 퍼졌다) · 옛 lock='face': 메가 머리 뒤로 지나간다 — 머리 상자는 메를 자르고(「포스터」), 윗몸을 통째로 묶으면 떠다닌다(11-24 형) → 얼굴 안쪽만 묶는다
 }
